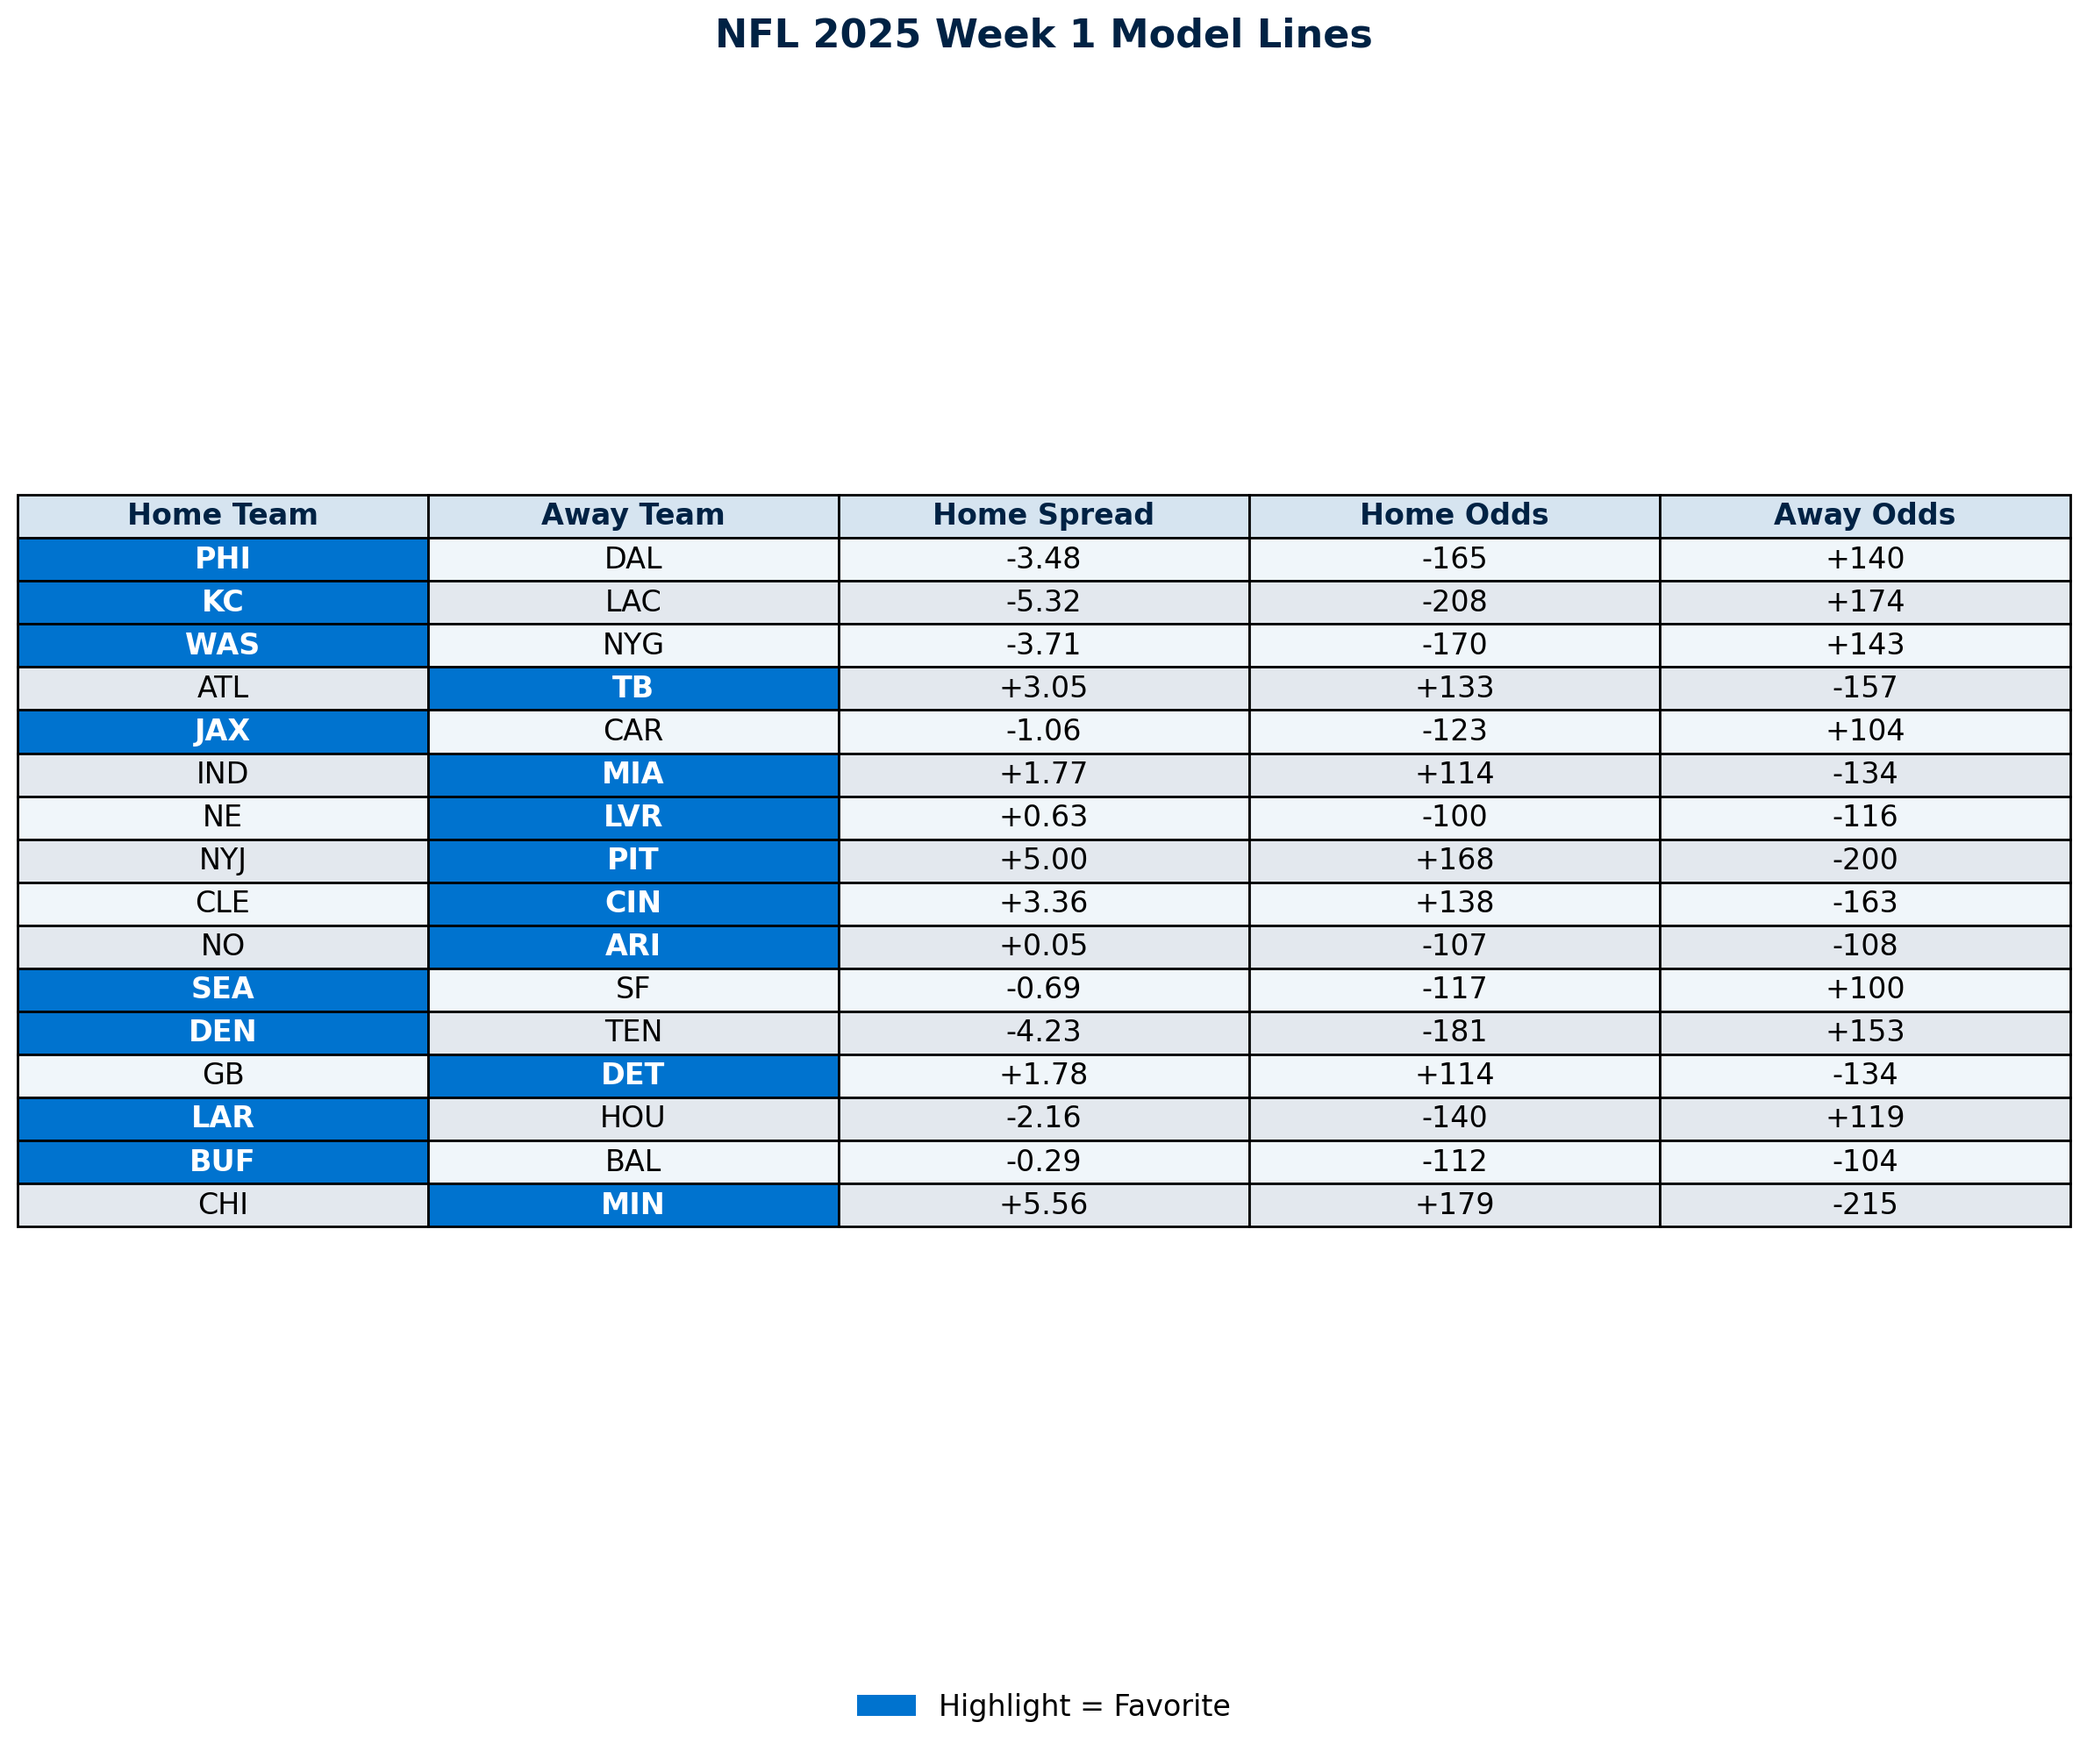
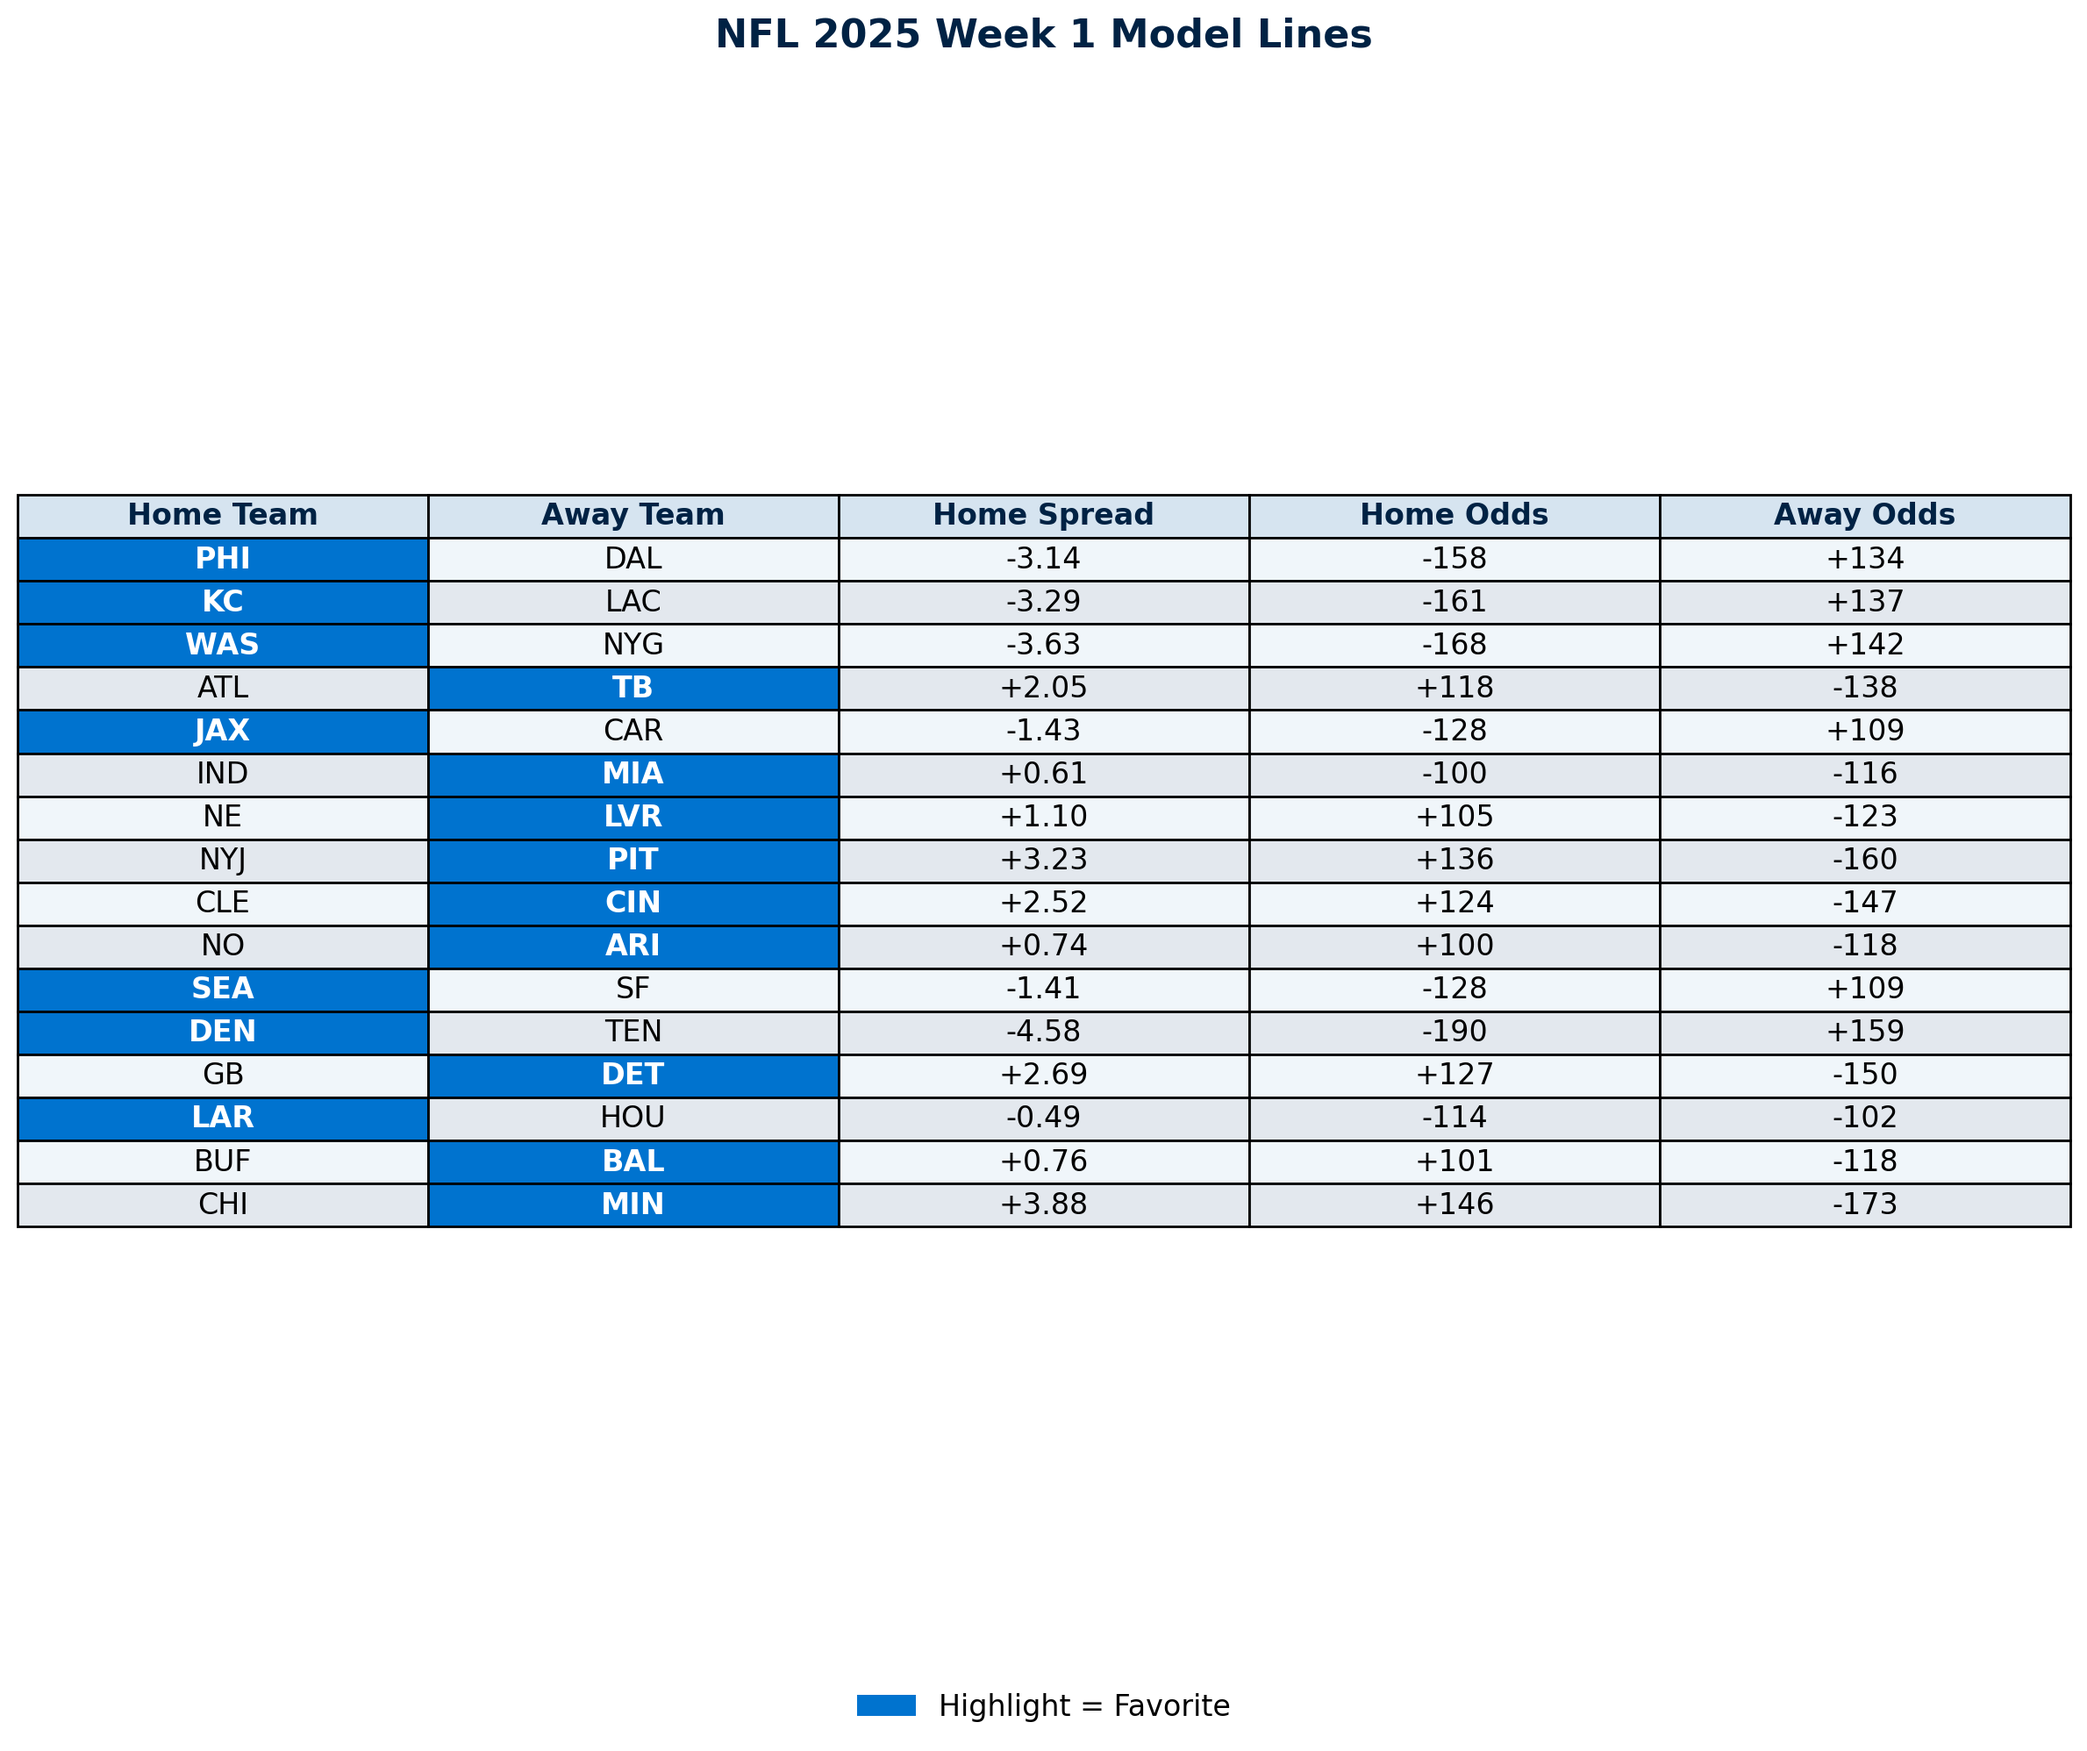
changing to last 3 years

diff --git a/Models/POWER-RANKINGS/power_rankings.py b/Models/POWER-RANKINGS/power_rankings.py
@@ -41,6 +41,10 @@ nfl_data = nfl_data[nfl_data["game_type"] == "REG"]
 print(f"Data shape after game_type filter: {nfl_data.shape}")
 nfl_data = nfl_data[nfl_data["week"] <= 18]
 print(f"Data shape after week filter: {nfl_data.shape}")
+# Filter for last 3 seasons
+last_3_seasons = sorted(nfl_data['season'].unique())[-3:]
+nfl_data = nfl_data[nfl_data['season'].isin(last_3_seasons)]
+print(f"Data shape after filtering for last 3 seasons ({last_3_seasons}): {nfl_data.shape}")
 
 # Initialize Elo ratings for all teams
 all_teams = pd.concat([nfl_data["home_team"], nfl_data["away_team"]]).unique()

diff --git a/Models/POWER-RANKINGS/power_rankings.md b/Models/POWER-RANKINGS/power_rankings.md
@@ -1,27 +1,4 @@
-# NFL Power Ranking and Betting Line Generation Design
+# Current Model
 
-## 1. Power Ranking Model: Elo-like System
-
-### 1.1. Initial Rating
-All teams will start with a base Elo rating of 1500.
-
-### 1.2. Game Outcome and Rating Update
-After each game, team ratings will be updated based on the game's outcome (win/loss) and the pre-game rating difference between the two teams. The update formula will be a modified Elo system that incorporates point differential.
-
-### 1.3. Point Differential Integration
-To account for the margin of victory/defeat, the actual score difference will influence the magnitude of the rating change. A larger win margin against a stronger opponent will result in a greater rating increase.
-
-### 1.4. K-factor
-A K-factor will be used to determine the maximum possible rating adjustment from a single game. This value can be tuned for optimal performance.
-
-## 2. Betting Line Generation
-
-### 2.1. Converting Power Rankings to Point Spreads
-The difference in Elo ratings between two teams will be converted into a point spread. This conversion will likely involve a linear relationship, where a certain rating difference corresponds to a specific point spread.
-
-### 2.2. Home-Field Advantage
-A fixed or dynamic home-field advantage (HFA) will be added to the home team's point spread. This accounts for the statistical advantage teams have when playing at home.
-
-### 2.3. Incorporating Vig (Vigorish/Juice)
-Once the raw point spread is determined, American betting odds will be generated by applying a vig. This ensures that the implied probabilities of all outcomes sum to more than 100%, reflecting real-world sportsbook practices. The odds will be calculated such that for a favorite, the odds are negative (e.g., -110), and for an underdog, the odds are positive (e.g., +110).
-
+1. Based on all regular season games from 2015 to 2025 in your database.
+2. No playoff games included

diff --git a/Models/POWER-RANKINGS/examples/power_rankings.md b/Models/POWER-RANKINGS/examples/power_rankings.md
@@ -1,0 +1,27 @@
+# NFL Power Ranking and Betting Line Generation Design
+
+## 1. Power Ranking Model: Elo-like System
+
+### 1.1. Initial Rating
+All teams will start with a base Elo rating of 1500.
+
+### 1.2. Game Outcome and Rating Update
+After each game, team ratings will be updated based on the game's outcome (win/loss) and the pre-game rating difference between the two teams. The update formula will be a modified Elo system that incorporates point differential.
+
+### 1.3. Point Differential Integration
+To account for the margin of victory/defeat, the actual score difference will influence the magnitude of the rating change. A larger win margin against a stronger opponent will result in a greater rating increase.
+
+### 1.4. K-factor
+A K-factor will be used to determine the maximum possible rating adjustment from a single game. This value can be tuned for optimal performance.
+
+## 2. Betting Line Generation
+
+### 2.1. Converting Power Rankings to Point Spreads
+The difference in Elo ratings between two teams will be converted into a point spread. This conversion will likely involve a linear relationship, where a certain rating difference corresponds to a specific point spread.
+
+### 2.2. Home-Field Advantage
+A fixed or dynamic home-field advantage (HFA) will be added to the home team's point spread. This accounts for the statistical advantage teams have when playing at home.
+
+### 2.3. Incorporating Vig (Vigorish/Juice)
+Once the raw point spread is determined, American betting odds will be generated by applying a vig. This ensures that the implied probabilities of all outcomes sum to more than 100%, reflecting real-world sportsbook practices. The odds will be calculated such that for a favorite, the odds are negative (e.g., -110), and for an underdog, the odds are positive (e.g., +110).
+
